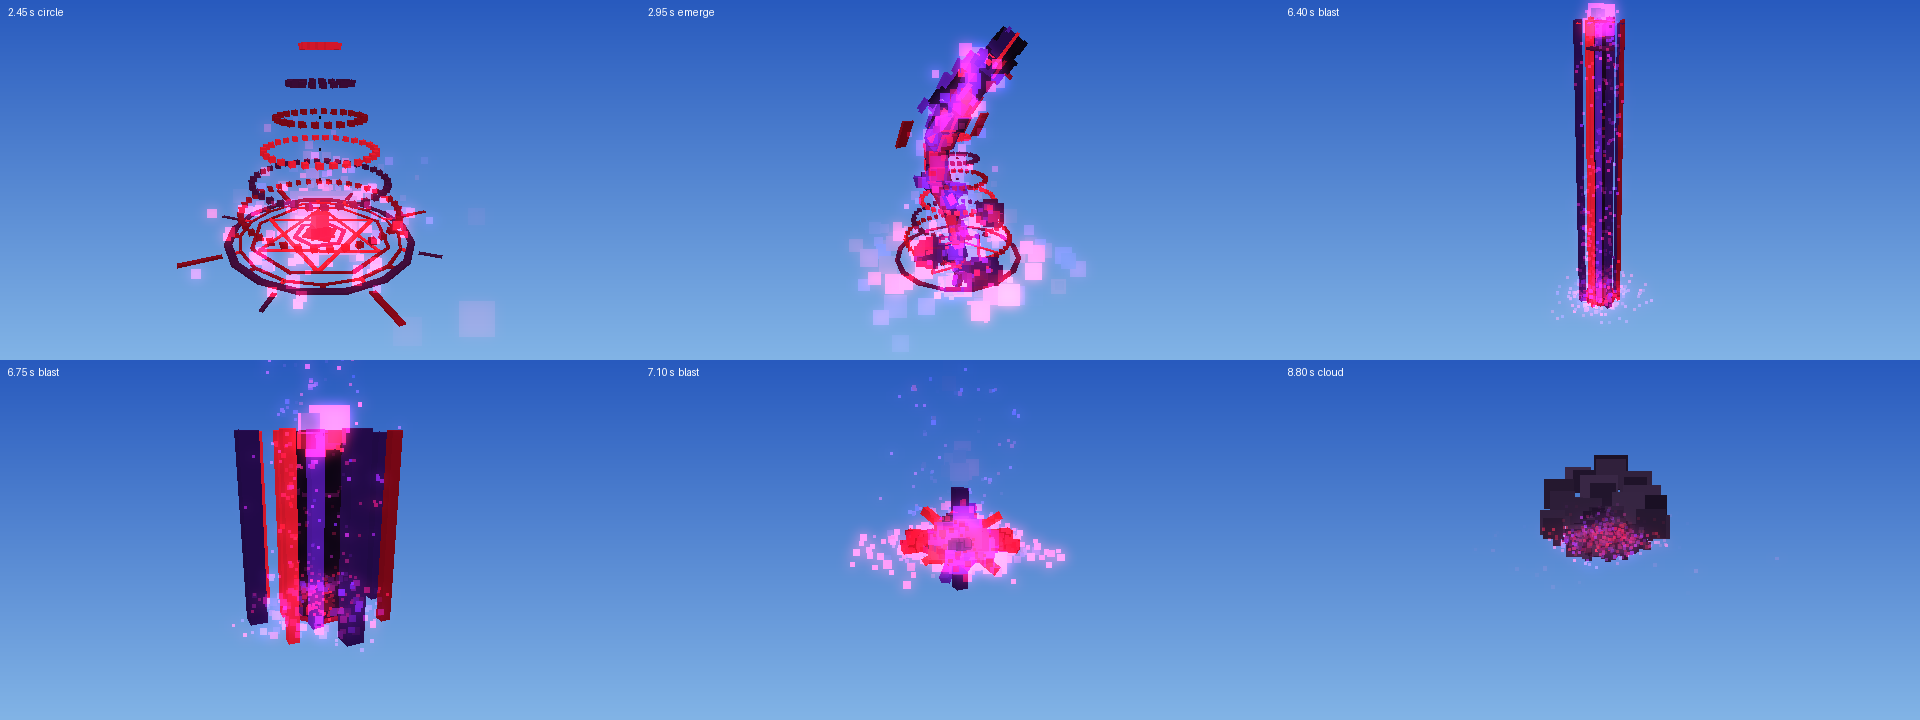
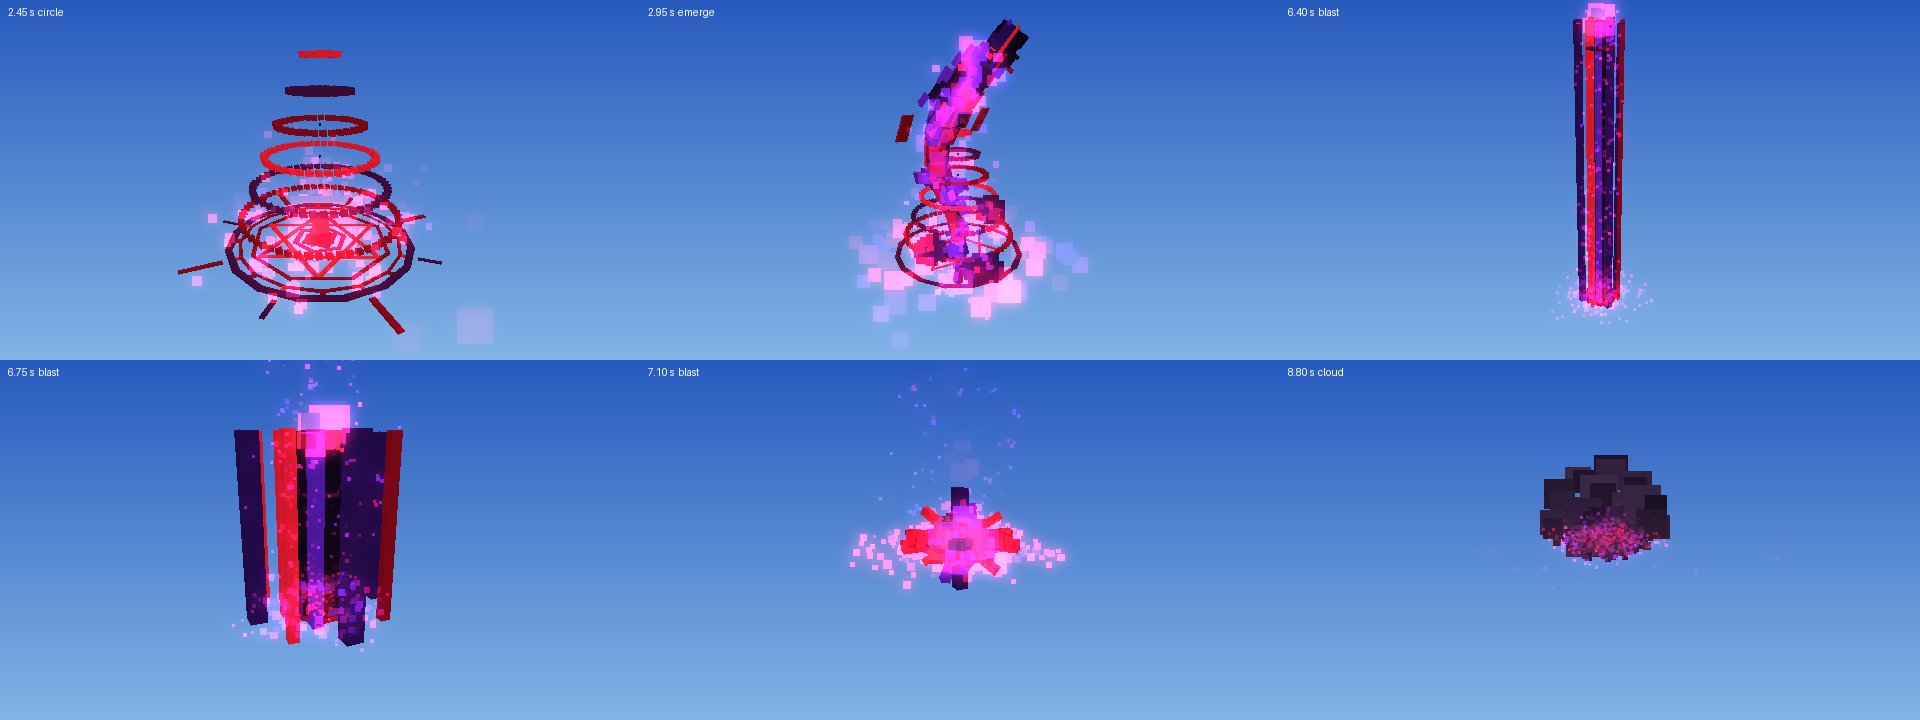
Three times as many particles on the circles above the ritual circle (ringDensity)

Changed region(s): [[0.0938, 0.0611, 0.25, 0.4583], [0.4375, 0.0306, 0.5625, 0.4278]]

diff --git a/dragon_pulse/world_code.js b/dragon_pulse/world_code.js
@@ -29,6 +29,7 @@ var DP_CFG = {
   maxMeshes: 399,
   nodes: "",
   ringParticles: true,
+  ringDensity: 3,
   vortex: true,
 }
 
@@ -556,11 +557,11 @@ function dpEmitter(rad, col) {
   return {
     texture: "square_particle",
     minLifeTime: 0.24,
-    maxLifeTime: 0.36,
+    maxLifeTime: 0.45,
     minEmitPower: 0.05,
     maxEmitPower: 0.25,
     minSize: 0.12,
-    maxSize: 0.24,
+    maxSize: 0.3,
     gravity: [0, 0.4, 0],
     velocityGradients: [{ timeFraction: 0, factor: 1, factor2: 1 }],
     colorGradients: [
@@ -573,7 +574,7 @@ function dpEmitter(rad, col) {
     width: rad * 2,
     depth: rad * 2,
     height: 0.08,
-    emitRate: Math.round(30 + rad * 40),
+    emitRate: Math.round((30 + rad * 40) * DP_CFG.ringDensity),
     emitterShape: "ring",
   }
 }

diff --git a/README.md b/README.md
@@ -133,9 +133,9 @@ The meshes sit over your own skin; they do not hide it.
 
 | File | Goes into | Characters | Limit |
 |---|---|---|---|
-| `world_code.js` | World Code | 43,849 | 512,000 |
-| `goodra.js` | World Code, below `world_code.js` | 10,215 | 512,000 together: 54,065 |
-| `skin.js` | World Code | 6,032 | 512,000, all three together: 60,098 |
+| `world_code.js` | World Code | 43,889 | 512,000 |
+| `goodra.js` | World Code, below `world_code.js` | 10,215 | 512,000 together: 54,105 |
+| `skin.js` | World Code | 6,032 | 512,000, all three together: 60,138 |
 | `code_block.js` | Code Block | 18 | 32,000 |
 | `studio/particles_only.code_block.js` | Code Block | 6,430 | 32,000 |
 
@@ -330,6 +330,10 @@ with `emitterShape: "ring"`: the game itself keeps emitting particles round the
 ring, so each circle is one entity and needs no calls after it is made. The main
 circle on the floor is still meshes. `dpEmitter(radius, colour)` builds the
 options; rows of `DP_CIRCLE` with flag `e` use it.
+
+`ringDensity` in `DP_CFG` (3) sets how many particles the circles give off: the
+largest gives off about 460 a second and the smallest about 160. Raise it for
+thicker rings, lower it if the game slows down.
 
 Set `ringParticles: false` in `DP_CFG` to get the mesh circles back. The code
 also switches back by itself if the game throws an error when the first emitter
